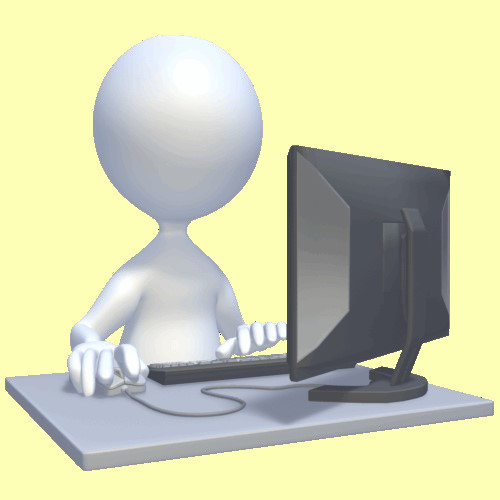
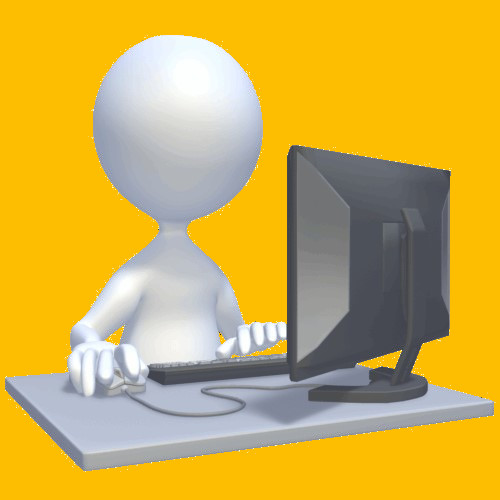
colour update

diff --git a/dist/data.tsx b/dist/data.tsx
@@ -20,25 +20,25 @@ export const interests = [
   {
     title: 'Save our planet',
     gif: '/images/trees.gif',
-    gif_static: '/images/trees_static.jpg',
+    gif_static: '/images/trees_static.png',
     text: 'The fight against desctruction of habitat and pollution of our atmospheres for the gain of a few is something that is very close to my heart...',
-    bg: '#9bf6ff',
+    bg: '#405f00',
     id: 1,
   },
   {
     title: 'Balanced Societies',
     gif: '/images/equal.gif',
-    gif_static: '/images/equal_static.jpg',
+    gif_static: '/images/equal_static.png',
     text: 'together with the right for a safe, peaceful and meaningful environment to live in, for every person on this planet...',
-    bg: '#fe5f55',
+    bg: '#ade006',
     id: 2,
   },
   {
     title: 'Clean Tech to the rescue',
     gif: '/images/tech.gif',
-    gif_static: '/images/tech_static.jpg',
+    gif_static: '/images/tech_static.png',
     text: 'are the reasons for me to change my life and get into development. I believe that technology is one of the big solutions and I am hoping to contribute in my own small way.',
-    bg: '#fdffb6',
+    bg: '#7fdcff',
     id: 3,
   }
 ]
